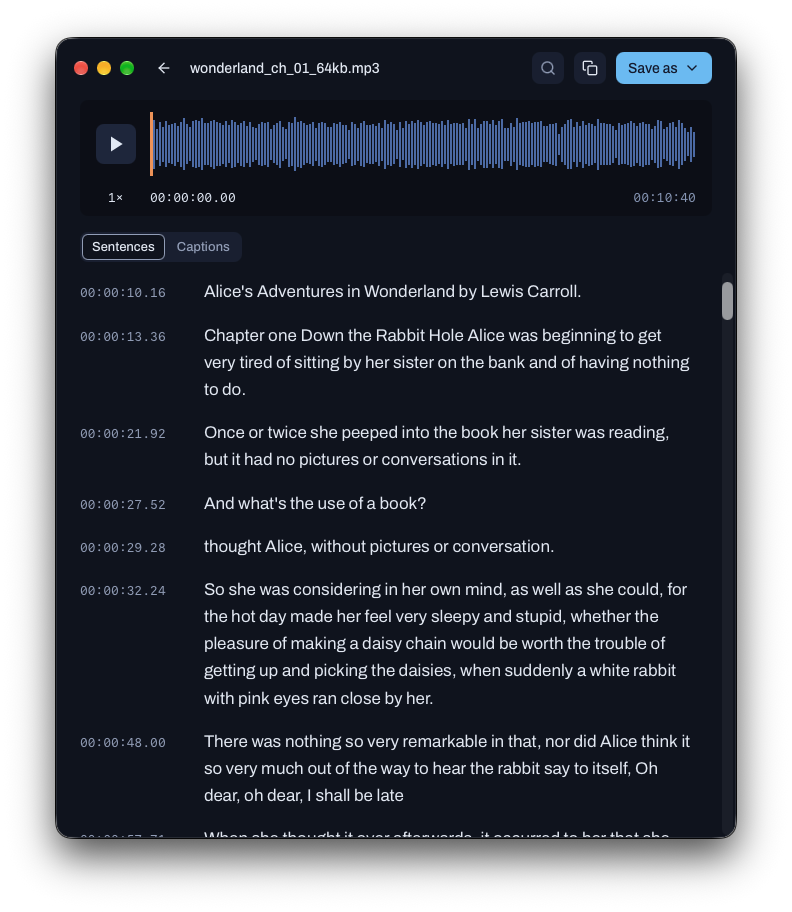
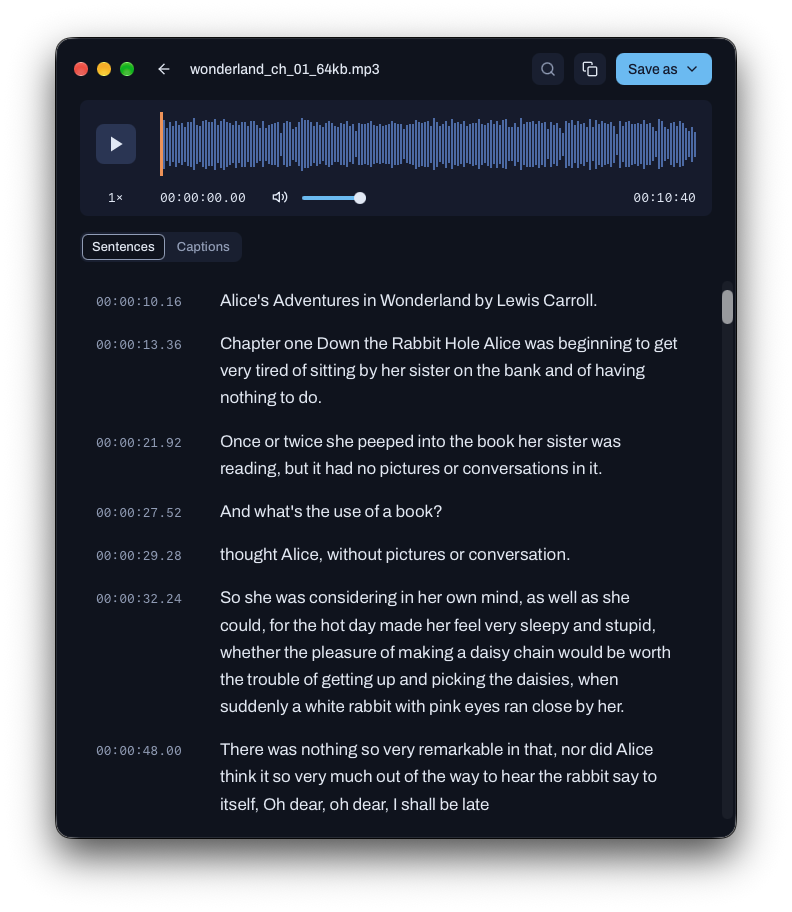
The Mac's screenshots on 0.9.2; AIFF on Windows in the formats table
scripts/screenshots-mac.sh sets playback, the view and the times to their
defaults for the shot (1x, full volume, sentences, seconds), as it sets
the model and the window: the shot had shown the volume the user left.
Taken with the 0.9.2 DMG's app; the title is still the first row at
SCROLL 129.

README: AIFF by pktito's own reader on Windows since 0.9.1, as the 9950X's
smoke test of 0.9.1 found, apart from CAF, which Windows still can't read.

Claude-Session: https://claude.ai/code/session_01SZDP7qNDX8mTRtJ2x3zQP9

diff --git a/README.md b/README.md
@@ -41,7 +41,8 @@ the other two), 2026-10-21:
 | MPEG-TS (H.264, AAC), MPEG-PS (MPEG-2, MP2)                               |   ✓   |     ✓      |     ✓      |
 | AVI: MJPEG with PCM                                                       |   ✓   |     ✓      |     ✓      |
 | AC-3 5.1, alone or in M2TS                                                |   ✓   |     –      |     ✓      |
-| AIFF; CAF with ALAC                                                       |   ✓   |     –      |     ✓      |
+| AIFF                                                                      |   ✓   |     ✓      |     ✓      |
+| CAF with ALAC                                                             |   ✓   |     –      |     ✓      |
 | Ogg Opus and Vorbis, .opus voice messages                                 |   ✓   |     –      |     ✓      |
 | WebM: Opus or Vorbis, with VP8, VP9 or AV1                                |   –   |     ✓      |     ✓      |
 | Matroska with AAC                                                         |   –   |     ✓      |     ✓      |
@@ -51,6 +52,10 @@ the other two), 2026-10-21:
 | FLV; Ogg Theora                                                           |   –   |     –      |     ✓      |
 | An MP3 named .m4a                                                         |   –   |     ✓      |     ✓      |
 | An M4A cut off halfway                                                    |   –   | first half | first half |
+
+AIFF on Windows is pktito's own reader's, since 0.9.1: the 9950X's smoke
+test of 0.9.1 transcribed one there (2026-10-24); the rest of the table is
+the run above.
 
 With ffmpeg on the PATH, every file reads on every system. A file with
 several audio tracks gives its first, as all three decoders take it.
